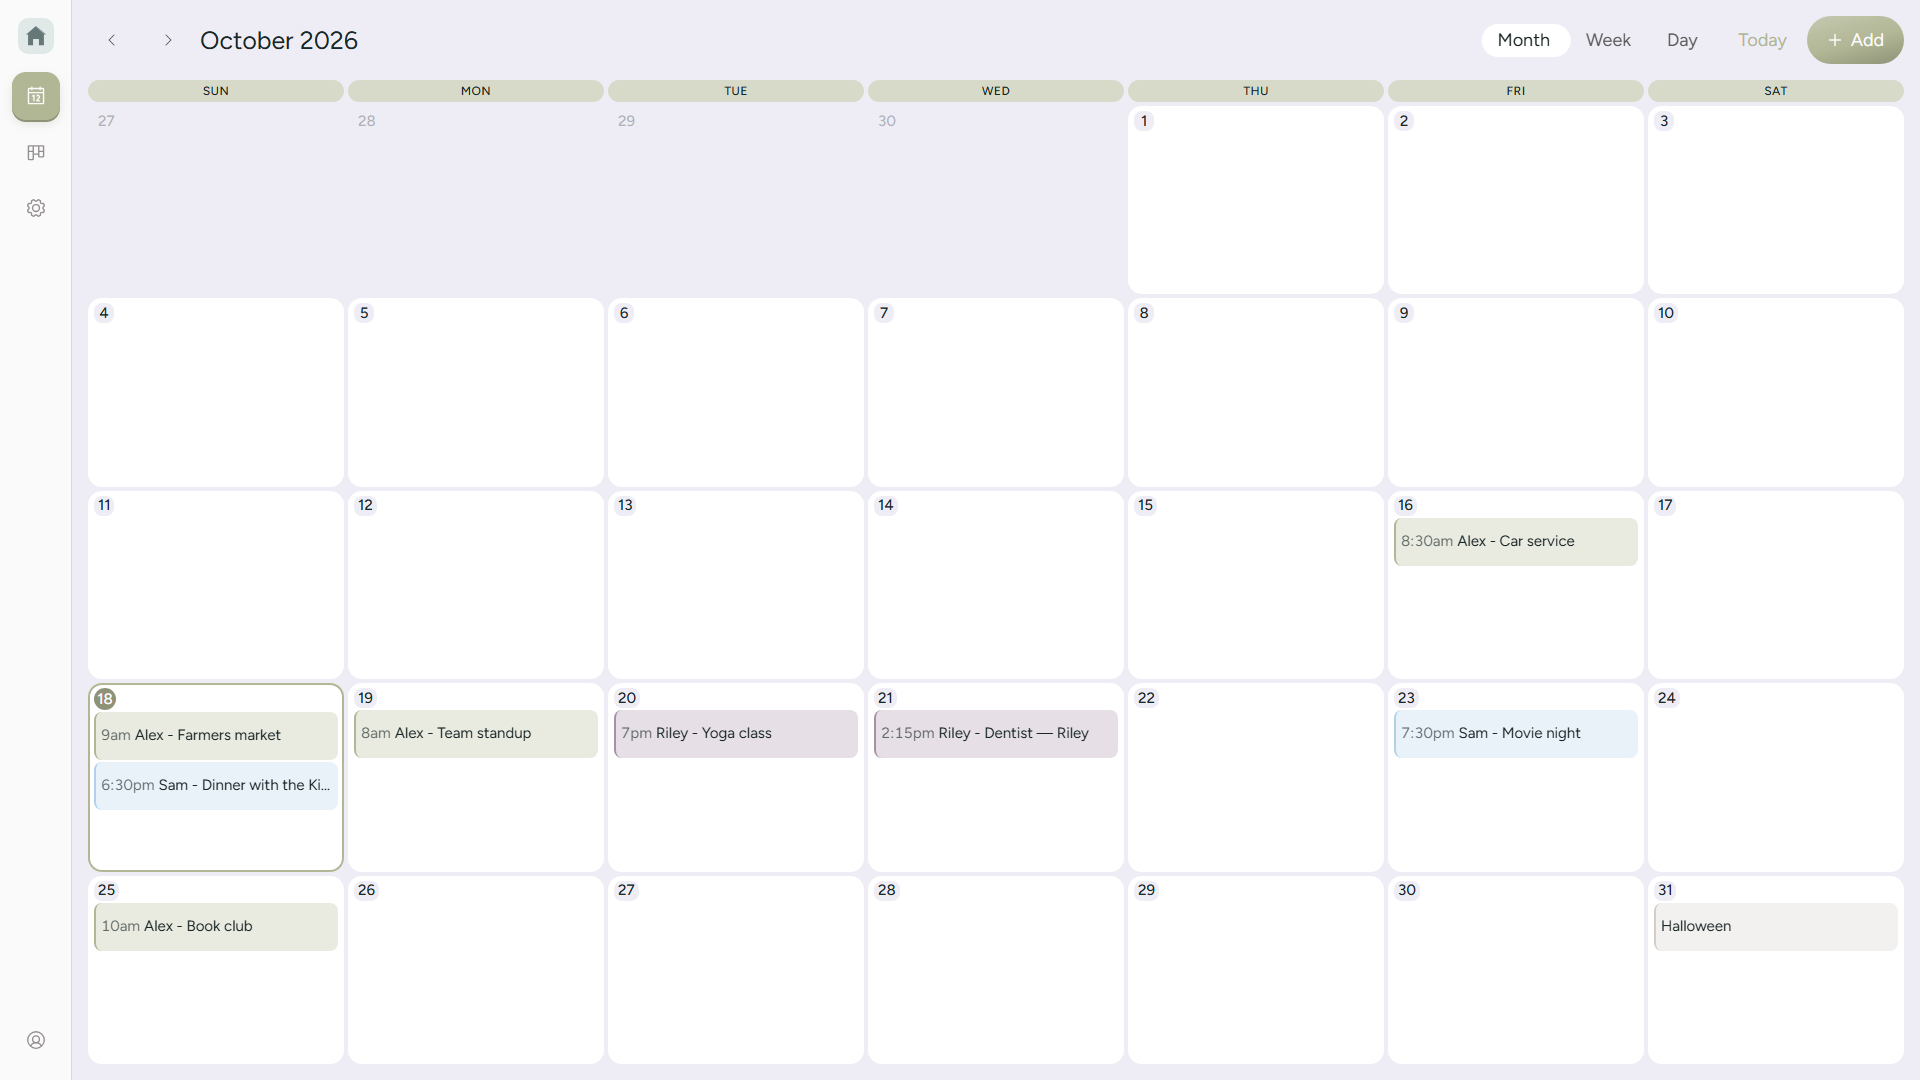
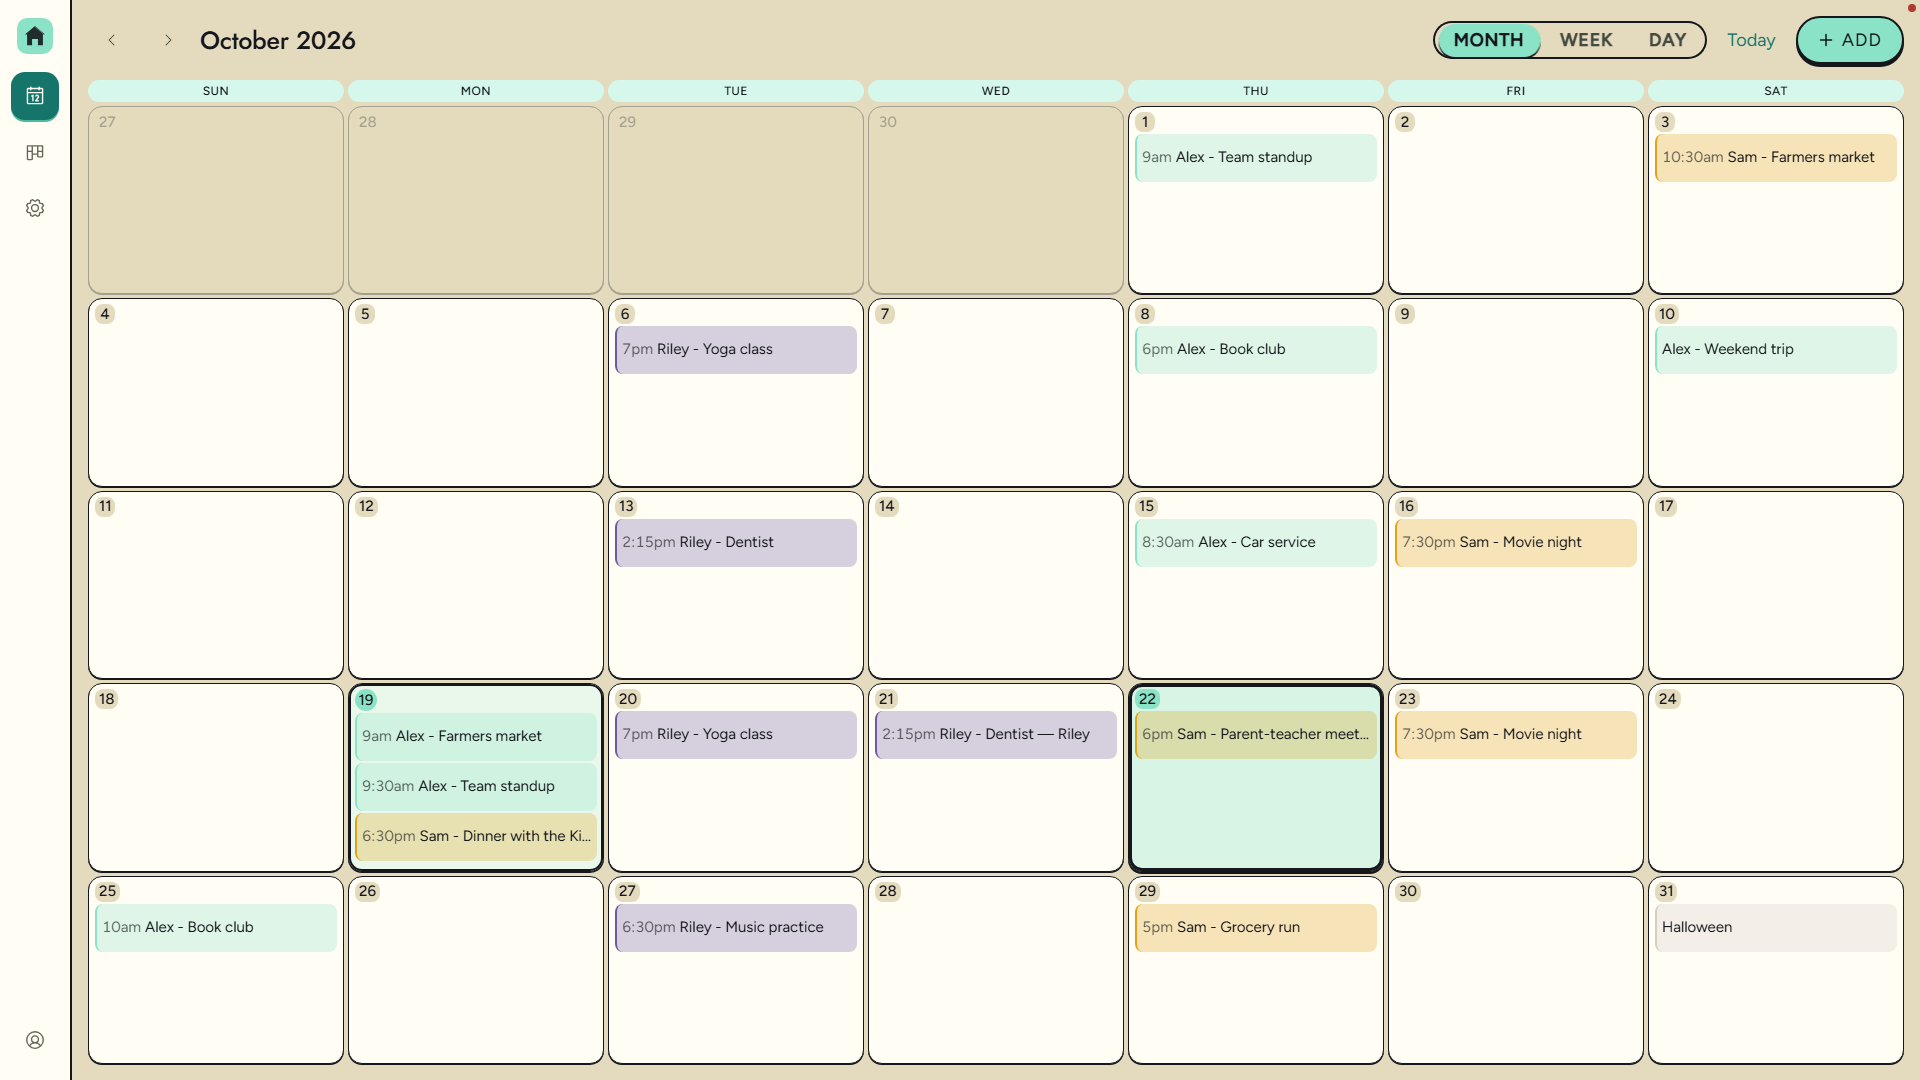
feat(web): default to Futur theme and highlight calendar dates
Make Futur the default preset with Mint accent, rename the former Default preset to Clay-o, and refresh the browser/PWA theme colors. Selected and today month cards, week headers, and the day banner now use the active accent color. Regenerate README screenshots.

diff --git a/web/src/components/calendar/CalendarView.vue b/web/src/components/calendar/CalendarView.vue
@@ -627,12 +627,19 @@ function handleMonthNavigate(month: number, year: number, day?: number) {
 .day-cell.adjacent{opacity:0.3;box-shadow:none;background:var(--color-bgSubtle);cursor:pointer}
 .day-cell.adjacent:hover{opacity:0.5;background:var(--color-bgSurface)}
 
-.day-cell.selected{box-shadow:inset 0 0 0 2px var(--color-primary)}
+/* Today and selected cards carry an accent tint plus a strong accent ring. */
+.day-cell.today{background:color-mix(in srgb,var(--color-accent-base) 14%,var(--color-bgElevated));box-shadow:inset 0 0 0 2px var(--color-accent-base),0 2px 6px -2px var(--shadow-drop)}
+.day-cell.today:hover{background:color-mix(in srgb,var(--color-accent-base) 20%,var(--color-bgElevated))}
+.day-cell.selected{background:color-mix(in srgb,var(--color-accent-base) 26%,var(--color-bgElevated));box-shadow:inset 0 0 0 2px var(--color-accent-dark),0 2px 8px -2px var(--shadow-accent-drop)}
+.day-cell.selected:hover{background:color-mix(in srgb,var(--color-accent-base) 32%,var(--color-bgElevated))}
+.day-cell.selected.today{background:color-mix(in srgb,var(--color-accent-base) 36%,var(--color-bgElevated));box-shadow:inset 0 0 0 3px var(--color-accent-dark),0 3px 10px -2px var(--shadow-accent-drop)}
 @keyframes today-pulse{0%,70%,100%{opacity:0;transform:scale(0.85)}35%{opacity:0.40;transform:scale(1.15)}}
 
 /* Day number as a distinct pill badge */
 .day-num{display:inline-flex;align-items:center;justify-content:center;min-width:20px;height:20px;padding:0 var(--space-1);border-radius:var(--radius-xs);background:var(--color-bgSubtle);font-size:var(--text-label-size);font-weight:var(--font-weight-medium);align-self:flex-start;margin-bottom:2px;line-height:1;flex-shrink:0}
-.day-cell.today .day-num{width:22px;height:22px;min-width:unset;border-radius:var(--radius-full);background:var(--color-accent-dark);color:var(--color-textInverse);position:relative}
+.day-cell.today .day-num,
+.day-cell.selected .day-num{background:var(--color-accent-dark);color:var(--color-on-accent,var(--color-textInverse))}
+.day-cell.today .day-num{width:22px;height:22px;min-width:unset;border-radius:var(--radius-full);position:relative}
 .day-cell.today .day-num::after{content:'';position:absolute;inset:-6px;border-radius:var(--radius-full);background:var(--color-accent-glow);opacity:0;animation:today-pulse 2.8s cubic-bezier(0.25,0.46,0.45,0.94) infinite;animation-delay:1.2s;z-index:-1}
 .day-events{display:flex;flex-direction:column;gap:2px;flex:1;min-width:0;min-height:0;overflow:hidden}
 .more-events{flex-shrink:0;font-size:var(--text-micro-size);color:var(--color-textSecondary);padding:2px 5px 0}
@@ -649,7 +656,7 @@ function handleMonthNavigate(month: number, year: number, day?: number) {
 .week-time-gutter{grid-column:1}
 
 .week-col-header{display:flex;flex-direction:column;align-items:center;justify-content:center;padding:var(--space-1);border-radius:var(--radius-sm);font-size:var(--text-body-size);font-weight:var(--font-weight-medium);background:var(--color-accent-lighter);color:var(--color-textPrimary);transition:background var(--duration-fast);border-bottom:2px solid transparent}
-.week-col-header.today{background:var(--color-accent-dark);color:var(--color-textInverse)}
+.week-col-header.today{background:var(--color-accent-base);color:var(--color-on-accent,var(--color-textInverse));border-bottom-color:var(--color-accent-dark);box-shadow:0 2px 0 0 var(--color-accent-dark)}
 .week-day-name{font-size:var(--text-micro-size);opacity:0.7;text-transform:uppercase;letter-spacing:0.04em}
 .week-day-num{font-size:var(--text-heading-size);line-height:1}
 
@@ -675,7 +682,7 @@ function handleMonthNavigate(month: number, year: number, day?: number) {
   position:absolute;top:0;bottom:0;
   left:calc(52px + var(--day-idx,0) * (4px + var(--_cw)));
   width:var(--_cw);
-  background:var(--color-accent-lighter);opacity:0.45;pointer-events:none;z-index:0
+  background:color-mix(in srgb,var(--color-accent-base) 16%,transparent);pointer-events:none;z-index:0
 }
 
 /* Current time line — positioned inside .week-grid (position:relative) */
@@ -697,7 +704,7 @@ function handleMonthNavigate(month: number, year: number, day?: number) {
 .day-scroll{flex:1;min-height:0;overflow-y:auto;width:100%}
 .day-sticky{position:sticky;top:0;z-index:10;background:var(--color-bgBase);border-bottom:1px solid var(--color-border)}
 .day-banner{display:flex;align-items:baseline;justify-content:center;gap:var(--space-3);padding:var(--space-3) var(--space-6);background:var(--color-bgSubtle);flex-shrink:0}
-.day-banner.today{background:linear-gradient(165deg,var(--color-accent-dark),var(--color-accent-darker));color:var(--color-textInverse)}
+.day-banner.today{background:linear-gradient(165deg,var(--color-accent-base),var(--color-accent-dark));color:var(--color-on-accent,var(--color-textInverse))}
 .day-banner-dayname{font-size:var(--text-title-size);font-weight:var(--font-weight-regular)}
 .day-banner-date{font-size:var(--text-display-size);font-weight:var(--font-weight-thin)}
 .day-banner-month{font-size:var(--text-body-size);opacity:0.7}

diff --git a/web/src/__tests__/components/SettingsPanel.test.ts b/web/src/__tests__/components/SettingsPanel.test.ts
@@ -16,16 +16,16 @@ describe("SettingsPanel", () => {
     expect(wrapper.text()).toContain("Appearance")
   })
 
-  it("renders 3 theme buttons (Light, Dark, System)", () => {
+  it("renders 3 theme buttons for the default Futur preset (Day, Night, Auto)", () => {
     const wrapper = mount(SettingsPanel)
     const btns = wrapper.findAll(".theme-card")
     expect(btns).toHaveLength(3)
-    expect(btns[0]!.find(".theme-label").text()).toBe("Light")
-    expect(btns[1]!.find(".theme-label").text()).toBe("Dark")
-    expect(btns[2]!.find(".theme-label").text()).toBe("System")
+    expect(btns[0]!.find(".theme-label").text()).toBe("Day")
+    expect(btns[1]!.find(".theme-label").text()).toBe("Night")
+    expect(btns[2]!.find(".theme-label").text()).toBe("Auto")
   })
 
-  it("System is active by default", () => {
+  it("Auto is active by default", () => {
     const wrapper = mount(SettingsPanel)
     const btns = wrapper.findAll(".theme-card")
     expect(btns[2]!.classes()).toContain("active")
@@ -56,22 +56,31 @@ describe("SettingsPanel", () => {
     expect(settings.warm.value).toBe(true)
   })
 
-  it("renders the theme preset cards with Default active", () => {
+  it("renders the theme preset cards with Futur active", () => {
     const wrapper = mount(SettingsPanel)
     const cards = wrapper.findAll(".preset-card")
     expect(cards).toHaveLength(2)
-    expect(cards[0]!.text()).toContain("Default")
-    expect(cards[1]!.text()).toContain("Futur")
+    expect(cards[0]!.text()).toContain("Futur")
+    expect(cards[1]!.text()).toContain("Clay-o")
     expect(cards[0]!.classes()).toContain("active")
   })
 
-  it("switching to Futur swaps accents and appearance copy", async () => {
+  it("switching to Clay-o swaps accents and appearance copy", async () => {
     const wrapper = mount(SettingsPanel)
     const settings = useSettings()
     const cards = wrapper.findAll(".preset-card")
 
     await cards[1]!.trigger("click")
 
+    expect(settings.themePreset.value).toBe("default")
+    expect(settings.accentColor.value).toBe("sage")
+    expect(document.documentElement.classList.contains("futur")).toBe(false)
+
+    const appearance = wrapper.findAll(".theme-card")
+    expect(appearance[0]!.find(".theme-label").text()).toBe("Light")
+    expect(appearance[2]!.find(".theme-label").text()).toBe("System")
+
+    await cards[0]!.trigger("click")
     expect(settings.themePreset.value).toBe("futur")
     expect(settings.accentColor.value).toBe("mint")
     expect(document.documentElement.classList.contains("futur")).toBe(true)
@@ -80,14 +89,9 @@ describe("SettingsPanel", () => {
     expect(swatches).toHaveLength(5)
     expect(swatches[0]!.attributes("title")).toBe("Mint")
 
-    const appearance = wrapper.findAll(".theme-card")
-    expect(appearance[0]!.find(".theme-label").text()).toBe("Day")
-    expect(appearance[2]!.find(".theme-label").text()).toBe("Auto")
-
-    await cards[0]!.trigger("click")
-    expect(settings.themePreset.value).toBe("default")
-    expect(settings.accentColor.value).toBe("sage")
-    expect(document.documentElement.classList.contains("futur")).toBe(false)
+    const futurAppearance = wrapper.findAll(".theme-card")
+    expect(futurAppearance[0]!.find(".theme-label").text()).toBe("Day")
+    expect(futurAppearance[2]!.find(".theme-label").text()).toBe("Auto")
   })
 
   it("renders accent color section", () => {
@@ -127,9 +131,9 @@ describe("SettingsPanel", () => {
     const settings = useSettings()
     const swatches = wrapper.findAll(".color-swatch")
     await swatches[1]!.trigger("click")
-    expect(settings.accentColor.value).toBe(COLORS[1])
+    expect(settings.accentColor.value).toBe("honey")
     await swatches[3]!.trigger("click")
-    expect(settings.accentColor.value).toBe(COLORS[3])
+    expect(settings.accentColor.value).toBe("clay")
   })
 
   it("renders the reminders card with the unified test button", () => {

diff --git a/web/public/futur.css b/web/public/futur.css
@@ -2,7 +2,7 @@
    HOMST "Futur" theme layer
    Applied by adding the `futur` class to <html>. It paints the app as flat cel
    color: warm paper, ink contours, hard offset shadows, saturated tertiary
-   fields, and a geometric display face. The default theme is untouched.
+   fields, and a geometric display face. The Clay-o theme is untouched.
    ───────────────────────────────────────────────────────────────────────────── */
 
 /* ── Light — Delivery Day ──────────────────────────────────────────────────── */
@@ -419,6 +419,25 @@
 .futur .day-cell {
   border: 1px solid var(--color-ink);
   box-shadow: 0 1px 0 0 var(--color-ink) !important;
+}
+
+/* Today and selected month cards get an accent field plus the ink outline so
+   they read instantly against the flat paper surface. */
+.futur .day-cell.today {
+  background: color-mix(in srgb, var(--color-action) 18%, var(--color-bgSurface)) !important;
+  box-shadow: inset 0 0 0 2px var(--color-ink), 0 1px 0 0 var(--color-ink) !important;
+}
+.futur .day-cell.selected {
+  background: color-mix(in srgb, var(--color-action) 34%, var(--color-bgSurface)) !important;
+  box-shadow: inset 0 0 0 3px var(--color-ink), 0 2px 0 0 var(--color-ink) !important;
+}
+.futur .day-cell.selected.today {
+  background: color-mix(in srgb, var(--color-action) 44%, var(--color-bgSurface)) !important;
+}
+.futur .day-cell.today .day-num,
+.futur .day-cell.selected .day-num {
+  background: var(--color-action) !important;
+  color: var(--color-on-accent) !important;
 }
 .futur .week-event-block,
 .futur .day-event-block {

diff --git a/web/e2e/settings.spec.ts b/web/e2e/settings.spec.ts
@@ -94,13 +94,22 @@ test.describe("Settings", () => {
     }
   })
 
-  test("theme has 3 options", async ({ page }) => {
+  test("theme has 3 options for the default Futur preset", async ({ page }) => {
     await openSettings(page)
     const cards = page.locator(".theme-card")
     await expect(cards).toHaveCount(3)
-    await expect(cards.nth(0)).toContainText("Light")
-    await expect(cards.nth(1)).toContainText("Dark")
-    await expect(cards.nth(2)).toContainText("System")
+    await expect(cards.nth(0)).toContainText("Day")
+    await expect(cards.nth(1)).toContainText("Night")
+    await expect(cards.nth(2)).toContainText("Auto")
+  })
+
+  test("theme presets are Futur (default) and Clay-o", async ({ page }) => {
+    await openSettings(page)
+    const presets = page.locator(".preset-card")
+    await expect(presets).toHaveCount(2)
+    await expect(presets.nth(0)).toContainText("Futur")
+    await expect(presets.nth(1)).toContainText("Clay-o")
+    await expect(presets.nth(0)).toHaveClass(/active/)
   })
 
   test("can switch between all themes", async ({ page }) => {

diff --git a/web/src/composables/useSettings.ts b/web/src/composables/useSettings.ts
@@ -64,8 +64,8 @@ export const fontSizeScale: Record<FontSize, Record<string, string>> = {
 }
 
 const theme = ref<Theme>("system")
-const themePreset = ref<ThemePreset>("default")
-const accentColor = ref<AccentColor>("sage")
+const themePreset = ref<ThemePreset>("futur")
+const accentColor = ref<AccentColor>("mint")
 const fontSize = ref<FontSize>("large")
 const warm = ref(false)
 const hudEnabled = ref(true)
@@ -249,8 +249,8 @@ export function useSettings() {
 
 export function _resetSettings() {
   theme.value = "system"
-  themePreset.value = "default"
-  accentColor.value = "sage"
+  themePreset.value = "futur"
+  accentColor.value = "mint"
   fontSize.value = "large"
   warm.value = false
   hudEnabled.value = true
@@ -260,6 +260,6 @@ export function _resetSettings() {
   serverApplyDepth = 0
   accentMemory.default = presetDefaultAccent.default
   accentMemory.futur = presetDefaultAccent.futur
-  applyThemePresetToDOM("default")
-  applyAccentToDOM("sage")
+  applyThemePresetToDOM("futur")
+  applyAccentToDOM("mint")
 }

diff --git a/web/src/components/settings/SettingsPanel.vue b/web/src/components/settings/SettingsPanel.vue
@@ -36,16 +36,16 @@ const themePresets: {
   swatches: string[]
 }[] = [
   {
-    value: "default",
-    label: "Default",
-    desc: "Soft clay, muted accents",
-    swatches: [accentPalette.sage.base, accentPalette.peach.base, accentPalette.mauve.base],
-  },
-  {
     value: "futur",
     label: "Futur",
     desc: "Flat color, ink outlines",
     swatches: [accentPalette.mint.base, accentPalette.honey.base, accentPalette.violet.base],
+  },
+  {
+    value: "default",
+    label: "Clay-o",
+    desc: "Soft clay, muted accents",
+    swatches: [accentPalette.sage.base, accentPalette.peach.base, accentPalette.mauve.base],
   },
 ]
 

diff --git a/web/src/__tests__/components/AppFull.test.ts b/web/src/__tests__/components/AppFull.test.ts
@@ -90,7 +90,7 @@ describe("App — bootstrap, idle cycle and cleanup", () => {
 
   it("applies theme, accent, font, warm and timezone from household settings", async () => {
     const settings = useSettings()
-    mockApi({ isComplete: true, theme: "dark", accentColor: "sage", fontSize: "large", warm: true })
+    mockApi({ isComplete: true, theme: "dark", themePreset: "default", accentColor: "sage", fontSize: "large", warm: true })
     const wrapper = mountApp()
     await settleFully()
 

diff --git a/web/index.html b/web/index.html
@@ -1,9 +1,9 @@
 <!DOCTYPE html>
-<html lang="en">
+<html lang="en" class="futur">
 <head>
   <meta charset="UTF-8" />
   <meta name="viewport" content="width=device-width, initial-scale=1.0, user-scalable=no" />
-  <meta name="theme-color" content="#f4f3f8" />
+  <meta name="theme-color" content="#f3edd6" />
   <link rel="icon" type="image/svg+xml" href="/favicon.svg" />
   <link rel="apple-touch-icon" href="/apple-touch-icon.png" />
   <title>HOMST</title>

diff --git a/web/vite.config.ts b/web/vite.config.ts
@@ -17,8 +17,8 @@ export default defineConfig({
         name: "HOMST",
         short_name: "HOMST",
         description: "Household management",
-        theme_color: "#f4f3f8",
-        background_color: "#f4f3f8",
+        theme_color: "#f3edd6",
+        background_color: "#f3edd6",
         display: "standalone",
         scope: "/",
         start_url: "/",
